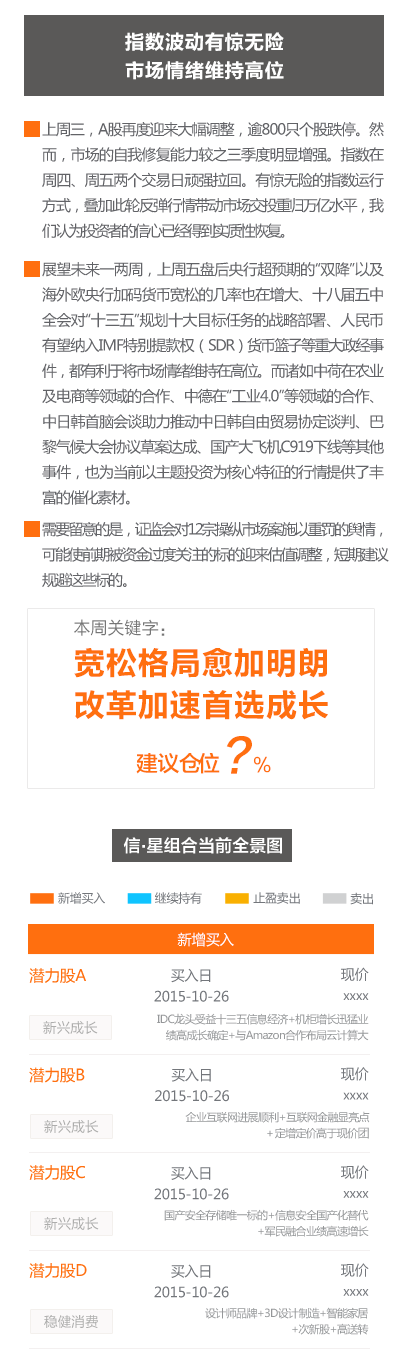
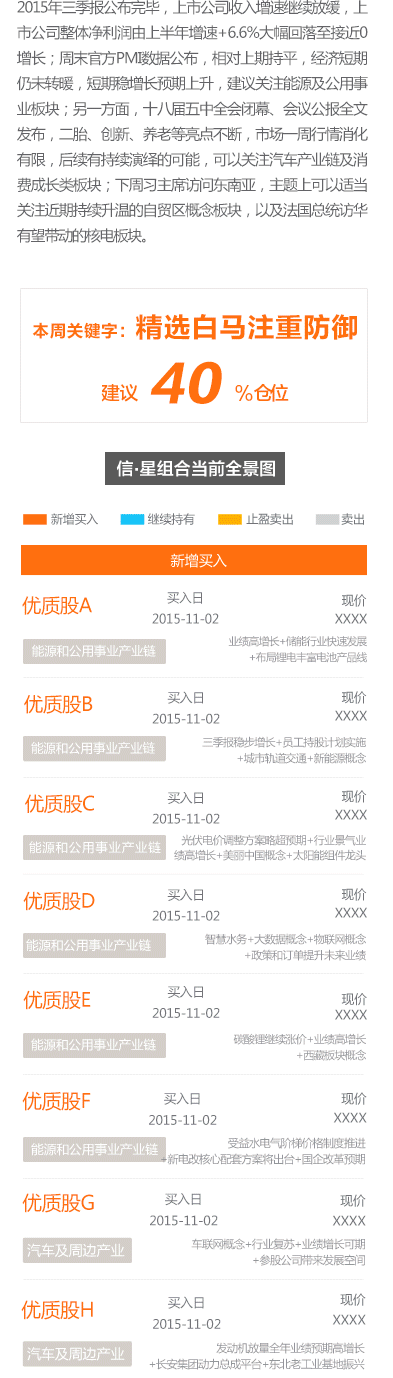
151102 update

diff --git a/ft.html b/ft.html
@@ -124,7 +124,7 @@ body{background-color: white;	font-family: "微软雅黑";}
 	<div class="ft-wrap">
 		<img src="images/ft-xet-icon.png" class="fl">
 		<div class="ft-xet-opinion clear">
-			<p class="font-30">&nbsp;&nbsp;宽松格局愈加明朗改革加速首选成长&nbsp;&nbsp;<span class="font-18">信<span class="dotted">·</span>投顾【第28期，10.26-11.01】周观点</span>
+			<p class="font-30">&nbsp;&nbsp;<small>市场震荡</small>分歧加大 <small>精选白马</small>注重防御&nbsp;&nbsp;<span class="font-18">信<span class="dotted">·</span>投顾【第29期，10.02-11.08】周观点</span>
 			</p>
 		</div>
 	</div>
